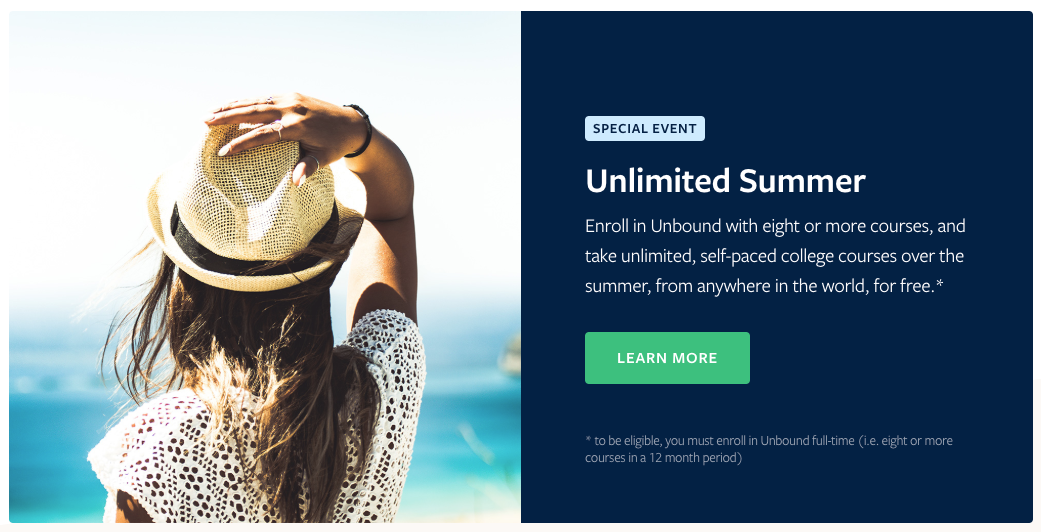
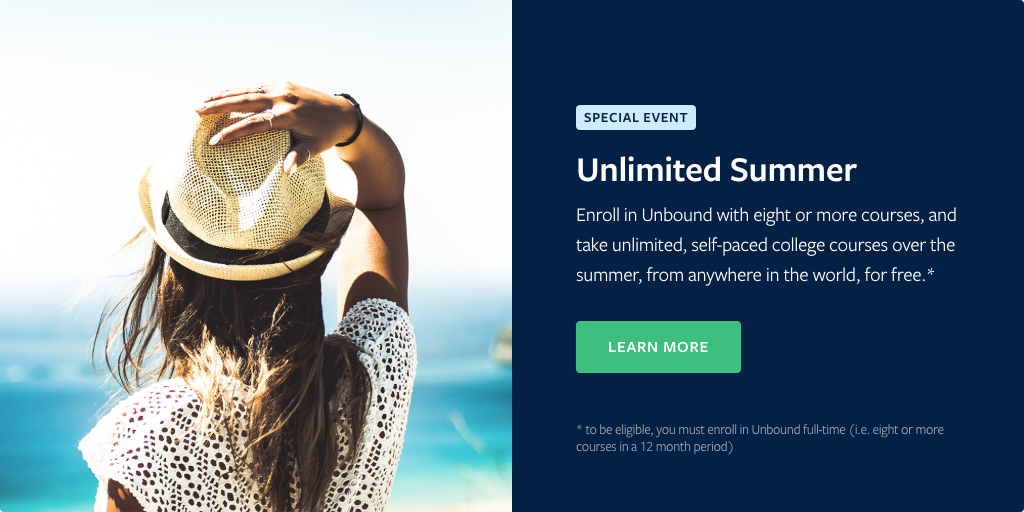
updates grid and images on portfolio

diff --git a/src/pages/portfolio.js b/src/pages/portfolio.js
@@ -8,7 +8,6 @@ import Layout from "../components/layout"
 import SEO from "../components/seo"
 import Heading from "../components/heading"
 import Text from "../components/text"
-import {Grid, GridItem} from "../components/grid"
 import Button from "../components/button.js"
 import Flex from "../components/flex"
 
@@ -39,32 +38,34 @@ const SecondPage = ({data}) => (
           </Heading>
           </Box>
         </Flex>
-        <Img fluid={data.unlimitedBanner.childImageSharp.fluid}/>
-        <Grid mt={['32px', '32px', '64px']}>
-          <GridItem gridColumn={['1 / -1', '2 / -2', '7 / -1', '7 / -2']} order={['1', '1', '2']} alignSelf={'flex-start'} px={'major.1'}>
-            <Text as="p">
-              Impressions: 273,040
-            </Text>
-            <Text as="p">
-              Leads: 675+
-            </Text>
-            <Text as="p">
-              Revenue of Goal: 189%
-            </Text>
-            <Text as="p">
-              Conversion Rate (landing page): 18.65%
-            </Text>
-          </GridItem>
-          <GridItem gridColumn={['1 / -1', '2 / -2', '1 / 6', '2 / 6']} order={['2', '2', '1']} alignSelf={'flex-start'} pb={'major.1'}>
-            <Text as="p">
-              I created this campaign to create more interest in the off-season and maintain a high average sale price. We were able to accomplish both.
-            </Text>
-            {/*TODO add href for button*/}
-            <Button my="0" as="a" href="https://getunbound.org" target="_blank">
-              View Landing Pages
-            </Button>
-          </GridItem>
-        </Grid>
+        <Box pt={['major.2']} >
+          <Img fluid={data.unlimitedBanner.childImageSharp.fluid}/>
+        </Box>
+        <Flex alignItems="center" justifyContent="space-between">
+          <Flex order={['1','1','2']} width="50%" flexDirection="column" flexWrap="wrap" borderLeft="1" pl={'major.2'}>
+          <Text as="p">
+            Impressions: 273,040
+          </Text>
+          <Text as="p">
+            Leads: 675+
+          </Text>
+          <Text as="p">
+            Revenue of Goal: 189%
+          </Text>
+          <Text as="p">
+            Conversion Rate (landing page): 18.65%
+          </Text>
+          </Flex>
+          <Flex order={['2','2','1']} width="50%" flexDirection="column" flexWrap="wrap">
+          <Text px={['minor.2']} as="p">
+            I created this campaign to create more interest in the off-season and maintain a high average sale price. We were able to accomplish both.
+          </Text>
+          {/*TODO add href for button*/}
+          <Button maxWidth="40%" as="a" href="https://getunbound.org" target="_blank">
+            View Landing Page
+          </Button>
+          </Flex>
+        </Flex>
       </Container>
     </Box>
     {/*End Unlimited Summer*/}
@@ -83,27 +84,27 @@ const SecondPage = ({data}) => (
           </Heading>
           </Box>
         </Flex>
-        <Img fluid={data.unlimitedBanner.childImageSharp.fluid}/>
-        <Grid>
-          <GridItem borderLeft="1" gridColumn={['1 / -1', '2 / -2', '7 / -1', '5 / 6']} order={['1', '1', '2']} alignSelf={'flex-start'} px={'major.1'}>
+        <Box pt={['major.2']}>
+          <Img fluid={data.opportunityCost.childImageSharp.fluid}/>
+        </Box>
+        <Flex alignItems="center" justifyContent="space-between">
+          <Flex order={['1','1','2']} width="50%" flexDirection="column" flexWrap="wrap" borderLeft="1" pl={'major.2'}>
             <Text as="p">
               Views: 262,800
             </Text>
-          </GridItem>
-          <GridItem borderLeft="1" gridColumn={['1 / -1', '2 / -2', '7 / -1', '7 / 8']} order={['2', '2', '3']} alignSelf={'flex-start'} px={'major.1'}>
             <Text as="p">
               Engagements: 2,500+
             </Text>
-          </GridItem>
-          <GridItem gridColumn={['1 / -1', '2 / -2', '1 / 6', '1 / 5']} order={['3', '3', '1']} alignSelf={'flex-start'} pb={'major.1'}>
-            <Text as="p">
+          </Flex>
+          <Flex order={['2','2','1']} width="50%" flexDirection="column" flexWrap="wrap">
+            <Text px={['minor.2']} as="p">
                Rank #1 in “Opportunity Cost of College” video search on Google and Bing
             </Text>
-            <Button my="0" target="_blank" href="https://www.youtube.com/watch?v=nN55-2f-I4s&pbjreload=10">
+            <Button maxWidth="40%" my="0" target="_blank" href="https://www.youtube.com/watch?v=nN55-2f-I4s&pbjreload=10">
               Watch Video
             </Button>
-          </GridItem>
-        </Grid>
+          </Flex>
+        </Flex>
       </Container>
     </Box>
     {/*End Opportunity Cost Video*/}
@@ -113,6 +114,13 @@ const SecondPage = ({data}) => (
 export const query = graphql`
   query {
     unlimitedBanner: file(relativePath: { eq: "unlimited_summer_banner.png" }) {
+      childImageSharp {
+        fluid(maxWidth: 1600) {
+          ...GatsbyImageSharpFluid
+        }
+      }
+    }
+    opportunityCost: file(relativePath: { eq: "opportunity_cost_of_college.png" }) {
       childImageSharp {
         fluid(maxWidth: 1600) {
           ...GatsbyImageSharpFluid

diff --git a/src/components/button.js b/src/components/button.js
@@ -1,6 +1,7 @@
 import React from 'react'
 import styled from 'styled-components'
 import { Link as GatsbyLink } from 'gatsby'
+import { maxWidth } from 'styled-system'
 
 const StyledButton = styled.a`
   /* Adapt the colors based on primary prop */
@@ -14,6 +15,8 @@ const StyledButton = styled.a`
   border-radius: 3px;
   font-weight: ${props => props.theme.fontWeights[1]}
   text-decoration: none;
+  text-align: center;
+  ${maxWidth}
 `;
 
 const Button = ({ children, to, ...props }) => {

diff --git a/src/components/image/index.js b/src/components/image/index.js
@@ -1,6 +1,7 @@
 import React from 'react'
 import { StaticQuery, graphql } from 'gatsby'
 import Img from 'gatsby-image'
+import { space } from 'styled-system'
 
 /*
  * This component is built using `gatsby-image` to automatically serve optimized

diff --git a/src/components/grid/Grid.js b/src/components/grid/Grid.js
@@ -28,8 +28,7 @@ const Grid = styled(Box)`
 `
 
 Grid.defaultProps = {
-  gridTemplateColumns: 'repeat(12, 1fr)',
-  gridGap: 'major.3'
+  gridTemplateColumns: 'repeat(12, 1fr)'
 }
 
 export default Grid

diff --git a/src/components/text/index.js b/src/components/text/index.js
@@ -18,7 +18,6 @@ const Text = styled(Box)`
   ${fontWeight}
   ${fontStyle}
   ${letterSpacing}
-
   & + & {
     margin-top: ${props => props.theme.space.major[2]}px;
   }
